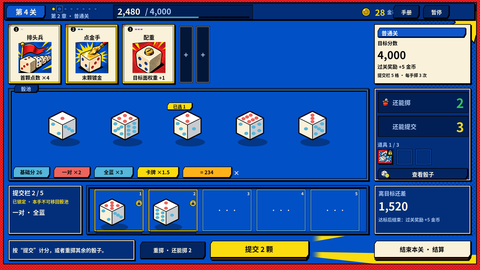
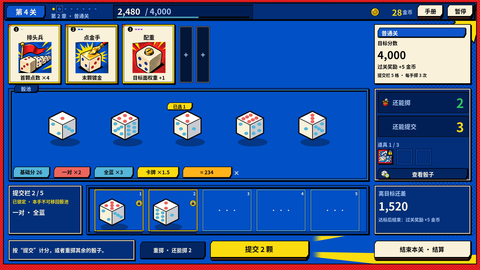
art(v1.1 W20 comic): offline mock draws the top bar's right end like the game
Self-review find: the offline play mock (contact sheet, and preview.png,
which is the mock reduced 4x) put the "金币" label under the handbook
button and drew handbook and pause as navy chips. The game places the
gold group at 1476-1652 (GameApp.Play11 TopBar11) and the two buttons at
1668 and 1788 as 108 x 60 UiKit.Button faces: paper over the code's
8F453A step (GameApp.Art07 DrawNavigation07). The mock now follows both.
The sancai mock shares the old code and has the same overlap.

Only preview.png and the contact sheet change; the 53 sprites, the table
scene, the felt tile, theme.json and the card template review are
byte-identical to 92aa6b0e. README: notes which mock parts follow the
game's geometry.

Strict audit: 53 sprites shipped, 0 missing (AUDIT_OK). Tests: comic
31/31; full Python suite 302/302.

Changed region(s): [[0.75, 0.0, 1.0, 0.0889]]

diff --git a/tools/art_v11/comic/build_comic.py b/tools/art_v11/comic/build_comic.py
@@ -1232,12 +1232,15 @@ def play_mock(sprites, specs, table) -> Image.Image:
     m.text(580, 44, "/ 4,000", 32, P["muted"], "lm")
     m.put("ui_progress_track", 466, 66, 532, 7, col("07191C"), mult=48 / 7)
     m.put("ui_progress_fill", 466, 66, 330, 7, col(P["blue"]), mult=48 / 7)
-    m.icon("ui_icon_coin", 1446, 30, 36, 36)
-    m.text(1540, 48, "28", 34, P["gold"], "rm")
-    m.text(1548, 48, "金币", 20, P["muted"], "lm")
-    for x, label in ((1572, "手册"), (1692, "暂停")):
-        m.put("ui_chip_formula", x, 20, 108, 56, sec)
-        m.text(x + 54, 48, label, 21, P["textColor"], "mm")
+    # Gold and the two buttons where the game puts them (GameApp.Play11 TopBar11: gold group 1476-1652; GameApp.Art07
+    # DrawNavigation07: handbook 1668 and pause 1788, 108 x 60 UiKit.Button = paper face on the code's 8F453A step).
+    m.icon("ui_icon_coin", 1482, 30, 36, 36)
+    m.text(1608, 48, "28", 34, P["gold"], "rm")
+    m.text(1610, 48, "金币", 20, P["muted"], "lm")
+    for x, label in ((1668, "手册"), (1788, "暂停")):
+        m.put("ui_button_bevel", x + 2, 26, 104, 54, col("8F453A"))
+        m.put("ui_button_bevel", x, 18, 108, 53, col(P["paper"]))
+        m.text(x + 54, 44, label, 23, P["ink"], "mm")
     # Cards.
     arts = ["C108", "C117", "U10"]
     for i, art in enumerate(arts):

diff --git a/tools/art_v11/comic/README.md b/tools/art_v11/comic/README.md
@@ -115,7 +115,7 @@ COMIC_ZONE submit_info_text150 rect=32,740,360,202 max_rgb_delta=0 limit=0 PASS
 ## 没能检查的
 
 - 引擎里的样子：Unity 导入、桌面 shader 的颗粒、扫光、首领压暗与暗角叠在红色页边上的效果、真实 TMP 字、按钮悬停 / 按下、720p 与超宽屏。接触表里的对局合成和卡面复核图是 Python 模拟（线性光乘色、九宫格按 PPU 200 展开；复核图按无 mipmap 的双线性取样），不是截图。
-- 只合成了对局画面、三种关卡状态和卡面模板；商店、结算、主菜单、骰子样式页没有合成。
+- 只合成了对局画面、三种关卡状态和卡面模板；商店、结算、主菜单、骰子样式页没有合成。对局合成里顶栏右端（金币、手册、暂停）、主按钮和结束按钮按 `GameApp` 的坐标与 `UiKit.Button` 的画法（米白或黄色面 + 代码固定色台阶），其余位置按 PLAY_LAYOUT 近似。
 - 桌面装饰的位置按 PLAY_LAYOUT 的对局版面放：商店、结算等别的界面里，右栏网点、速度线和爆炸星会出现在各自面板的空隙里，位置没有逐页核对。
 - 代码里的固定色不随风格：按钮台阶 B56B29 / 8F453A（主按钮下面会多一层棕色“台阶”）、商店分区标题 B8433F / 2F8F86 / 7B5FB5、进度槽 07191C、附魔 submit1 3F8F6B。
 - 卡面插画和合成图里的插画用的是 `themes/comic/anchors` 的概念图裁片，不是 W22 的正式重画；漫画风格还没有自己烘焙的紧凑图标，游戏里会退到默认风格的图标。
